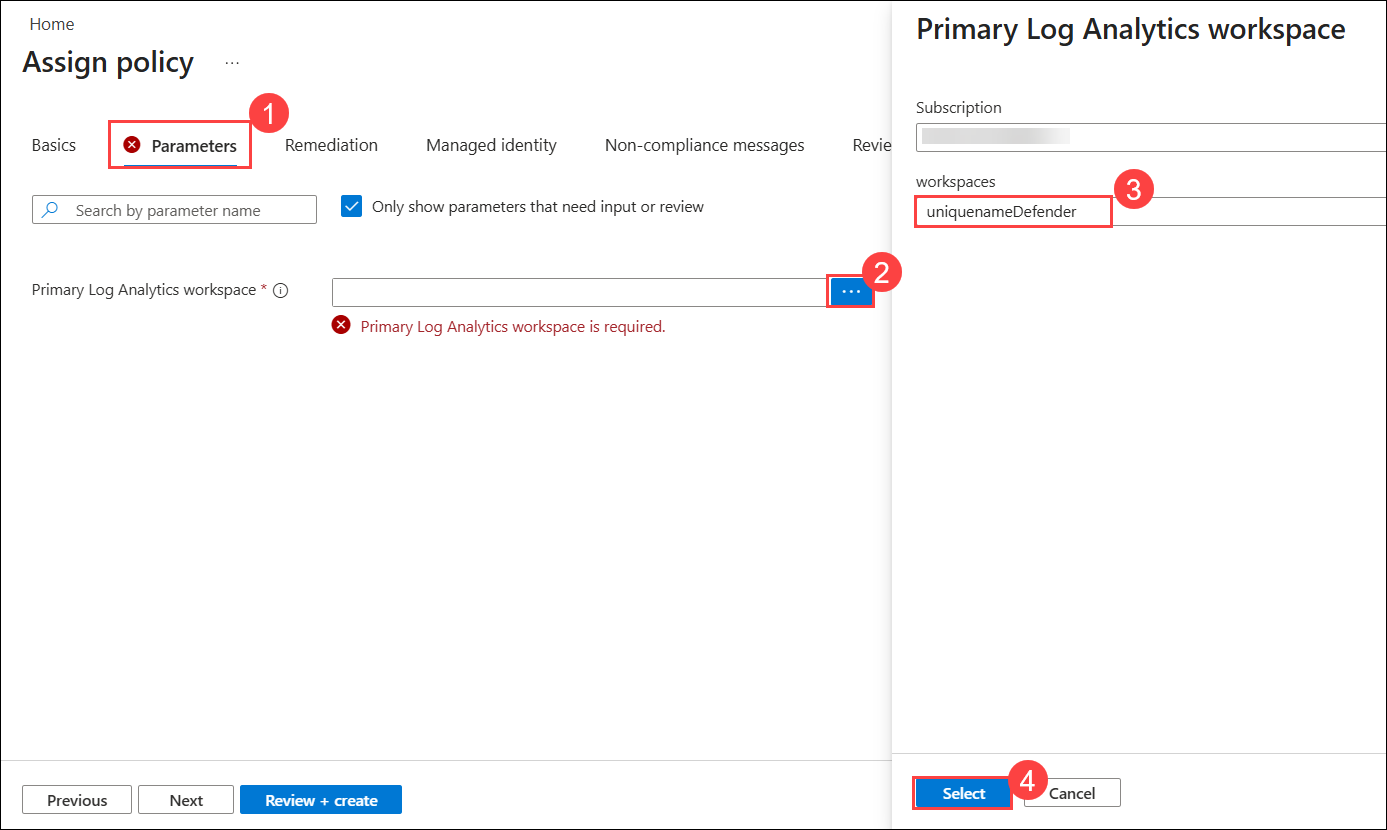
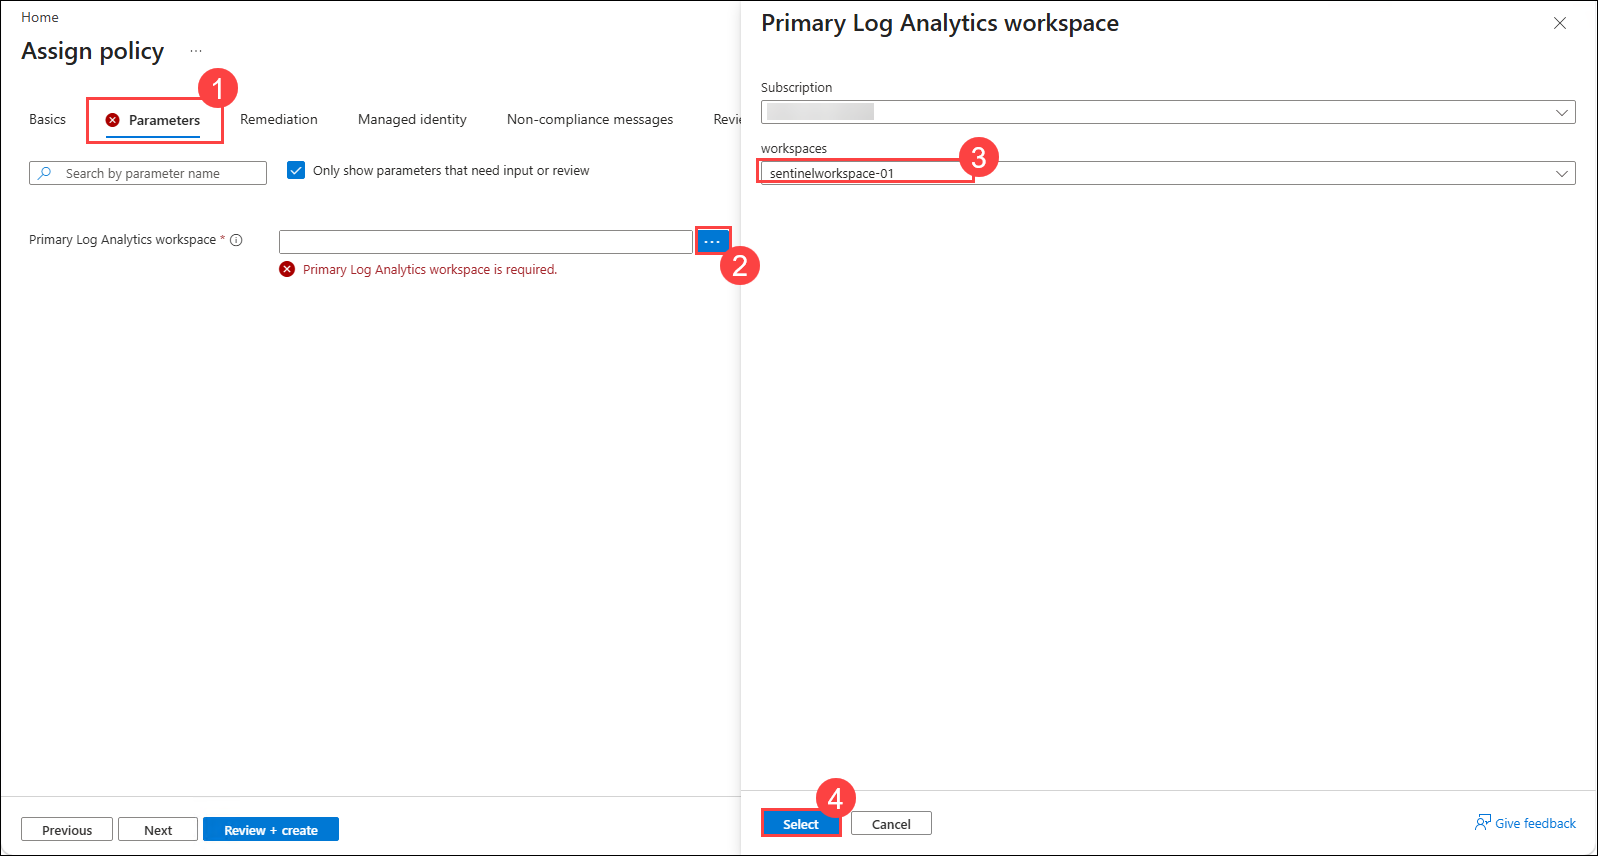
updated the all Custom labs

diff --git a/Instructions/Labs/LAB_AK_09_Lab1_Ex02_Playbook.md b/Instructions/Labs/LAB_AK_09_Lab1_Ex02_Playbook.md
@@ -1,4 +1,4 @@
-# Lab - Exercise 1: Create a Playbook in Microsoft Sentinel
+# Lab-10 Create a Playbook in Microsoft Sentinel
 
 ## Lab Scenario
 
@@ -15,7 +15,7 @@ After completing this lab, you will be able to:
 - Task 2: Update a Playbook in Microsoft Sentinel
 - Task 3: Create an Automation Rule
 
-## Estimated Timing: 30 Minutes
+## Estimated Timing: 60 Minutes
 
 ## Architecture Diagram
 
@@ -25,7 +25,11 @@ After completing this lab, you will be able to:
 
 In this task, you'll create a Logic App that is used as a Playbook in Microsoft Sentinel.
 
-1. On a new tab in the browser, go to **https://security.microsoft.com**
+1. On a new tab in the browser, go to **https://security.microsoft.com**.
+
+1. Close the pop-up that appears.
+
+    ![](../Media/img1.png)
 
 1. In the Microsoft Defender **Microsoft Sentinel (1)** navigation menu, scroll down to the **Content management (2)** section and select **Content Hub (3)**.
 
@@ -45,7 +49,9 @@ In this task, you'll create a Logic App that is used as a Playbook in Microsoft 
 
     ![](../Media/lab9-s23.png)
 
-1. Find the **Defender_XDR_Ransomware_Playbook_for_SecOps-Tasks** playbook and select the name.
+1. Select the **Back** arrow to view the content items and access the connector page. 
+
+1. Find the **Defender_XDR_Ransomware_Playbook_for_SecOps-Tasks (1)** playbook and select the name, then select **Configuration (2)**.
 
    ![](../Media/lab9-s24.png)
 
@@ -81,23 +87,25 @@ In this task, you update the new playbook you created with the proper connection
 
     ![](../Media/lab9-june26-p2t1p4.png)
 
-1. In the Search bar of the Azure portal, type Sentinel, then select Microsoft Sentinel.
+1. In the Search bar of the Azure portal, type Sentinel, then select **Microsoft Sentinel**.
 
 1. Select your Microsoft Sentinel Workspace.
 
-1. Select Automation under the Configuration area and then select the *Active Playbooks* tab.
+1. Select **Automation (2)** under the **Configuration (1)** area and then select the **Active Playbooks (3)** tab.
 
-1. Select Refresh from the command bar in case you don’t see any playbooks. You should see the playbook created from the previous step.
+    ![](../Media/lab-10-img1.png)
+
+1. Select **Refresh** from the command bar in case you don’t see any playbooks. You should see the playbook created from the previous step.
 
 1. Select the **Defender_XDR_Ransomware_Playbook_SecOps_Tasks** playbook name link.
+
+    ![](../Media/lab10-ss2.png)
 
 1. On the Logic app designer page for **Defender_XDR_Ransomware_Playbook_SecOps_Tasks**, in the command menu, select Edit.
 
     >**Note:** You may need to refresh the page.
 
-1. Select the first block, **Microsoft Sentinel incident (1)**.
-
-1. Select the **Change connection (2)** link.
+1. Select the first block, **Microsoft Sentinel incident (1)**, select the **Change connection (2)** link.
 
     ![](../Media/lab9-june26-p2t1p5.png)
 
@@ -131,7 +139,7 @@ In this task, you will create an automation rule in Microsoft Sentinel that runs
 
     ![](../Media/lab9-june26-p2t1p12(1).png)
 
-2. On the **Role** tab, search for **Microsoft Sentinel Automation Contributor (1)**, select the **Microsoft Sentinel Automation Contributor (2)** role, and then select **Review + assign (3)**.
+2. On the **Role** tab, search for **Microsoft Sentinel Automation Contributor (1)**, select the **Microsoft Sentinel Automation Contributor (2)** role, and then select **Next (3)**.
 
     ![](../Media/lab9-june26-p2t1p12(2).png)
 
@@ -164,7 +172,7 @@ In this task, you will create an automation rule in Microsoft Sentinel that runs
         - Persistence
         - Command and Control
         - Exfiltration
-        - PreAttack
+        - PreAttack(Deprecated)
 
 5. Under **Actions**, select **Run Logic Apps playbook (7)**.
 
@@ -176,15 +184,6 @@ In this task, you will create an automation rule in Microsoft Sentinel that runs
 
     ![Create Automation Rule](../Media/lab9-june26-p2t1p11.png)
 
-From here, depending on your role, you will either continue doing more architect exercises or you will pivot to the analyst exercises.
-
-   > **Congratulations** on completing the task! Now, it's time to validate it. Here are the steps:
-   > - Hit the Validate button for the corresponding task. You can proceed to the next task if you receive a success message.
-   > - If not, carefully read the error message and retry the step, following the instructions in the lab guide.
-   > - If you need any assistance, please contact us at cloudlabs-support@spektrasystems.com. We are available 24/7 to help you out.
-
-   <validation step="9a03fda7-3dc7-407d-bbea-d9650d728011" />
-
 ### Review
 In this lab, you have completed the following:
 
@@ -192,4 +191,4 @@ In this lab, you have completed the following:
 - Updated a Playbook in Microsoft Sentinel
 - Created an Automation Rule
 
-## Select **Next** to continue to Exercise 2
+### Congratulations, you’ve successfully completed the hands-on lab!

diff --git a/Instructions/Labs/LAB_AK_08_Lab1_Ex01_Connect_Services.md b/Instructions/Labs/LAB_AK_08_Lab1_Ex01_Connect_Services.md
@@ -1,4 +1,4 @@
-# Lab - Exercise 1: Connect data to Microsoft Sentinel using data connectors
+# Assignment-2: Connect data to Microsoft Sentinel using data connectors
 
 ## Lab Scenario
 
@@ -6,65 +6,24 @@ You are a Security Operations Analyst working at a company that implemented Micr
 
 ## Lab Objectives
  In this lab, you will perform the following:
-- Task 1: Create the Microsoft Sentinel Workspace
-- Task 2: Connect the Microsoft Defender for Cloud data connector
-- Task 3: Connect the Azure Activity data connector
+- Task 1: Connect the Microsoft Defender for Cloud data connector
+- Task 2: Connect the Azure Activity data connector
 
-### Estimated Timing: 20 Minutes
+### Estimated Timing: 60 Minutes
 
 ## Architecture Diagram
 
   ![Picture 1](../Media/mod8arch.png)
 
-### Task 1: Create the Microsoft Sentinel Workspace
-
-In this task, you will access your Microsoft Sentinel workspace.
-
-1. In the Search bar of the Azure portal, type **Log Analytics workspaces (1)**, then select **Log Analytics workspaces (2)**.
-
-    ![](../Media/lab6-s1.png)
-
-1. Select **+ Create** from the command bar.
-
-   ![](../Media/lab6-s2.png)
-
-1. To create a **log analytics workspace**, follow these steps:
-
-    - Subscription **Accept default subscription (1)**
-    - Select **rg-defender (2)** for the Resource group.
-    - For the Name, enter **uniquenameDefender (3)**.
-    - Leave the **default Region (4)**.
-    - Select **Review + Create (5)**.
-
-      ![Picture 1](../Media/lab7-s1.png)
-
-1. Once the workspace validation has passed, select **Create**.
-
-    ![](../Media/lab7-s2.png)
-
-1. Wait for the new workspace to be provisioned, this may take a few minutes.
- 
-1. In the Search bar of the Azure portal, type **microsoft sentinel (1)**, then select **Microsoft Sentinel (2)**.
-
-   ![](../Media/lab6-s5.png)
-
-1. Select **+ Create** from the command bar.
-
-    ![](../Media/lab6-s6.png)
-
- 1. Select the newly created workspace **uniquenameDefender (1)** and click on **Add (1)**.
-  
-    ![](../Media/lab6-s7.png)
-
-1. In the Microsoft Sentinel free trial activated tab, select **Ok**.
-
-   ![](../Media/lab6-s8.png)
-
-### Task 2: Connect the Microsoft Defender for Cloud data connector
+### Task 1: Connect the Microsoft Defender for Cloud data connector
 
 In this task, you will connect the Microsoft Defender for Cloud data connector.
 
-1. On a new tab in the browser, go to **https://security.microsoft.com**
+1. On a new tab in the browser, go to **https://security.microsoft.com**.
+
+1. Close the pop-up that appears.
+
+    ![](../Media/img1.png)
 
 1. On **Microsoft Defender** page, if the left navigation pane is collapsed, select **Show navigation** to expand it.
 
@@ -116,11 +75,11 @@ In this task, you will connect the Microsoft Defender for Cloud data connector.
 
 1. You can now close this browser tab and return to Microsoft Defender XDR.
 
-### Task 3: Connect the Azure Activity data connector
+### Task 2: Connect the Azure Activity data connector
 
 In this task, you will connect the **Azure Activity** data connector.
 
-1. In the Microsoft Sentinel left menus, scroll down to the **Content management** section and select **Content Hub**.
+1. In the Microsoft Sentinel left menu, scroll down to the **Content management** section and select **Content Hub**.
 
 1. In the **Content hub**, search for the **Azure Activity (1)** solution and select **Azure Activity (2)** from the list.
 
@@ -152,7 +111,7 @@ In this task, you will connect the **Azure Activity** data connector.
 
     ![](../Media/lab8-s11.png)
 
-1. Select **Parameters (1)**, click the workspace picker **(2)** for **Primary Log Analytics workspace**, choose **uniquenameDefender (3)**, and then select **Select (4)**.
+1. Select **Parameters (1)**, click the workspace picker **(2)** for **Primary Log Analytics workspace**, choose **sentinelworkspace-01 (3)**, and then select **Select (4)**.
 
     ![](../Media/lab8-s12.png)
 
@@ -195,4 +154,5 @@ In this lab, you have completed the following:
 - Connected the Microsoft Defender for Cloud data connector
 - Connected the Azure Activity data connector
 
-## Select **Next** to continue to Exercise 2
+### Congratulations, you’ve successfully completed the hands-on lab!
+

diff --git a/Instructions/Labs/LAB_AK_08_Lab1_Ex02_Connect_Windows.md b/Instructions/Labs/LAB_AK_08_Lab1_Ex02_Connect_Windows.md
@@ -189,7 +189,7 @@ In this task, you install Azure Arc on an on-premises server to make onboarding 
 
 In this task, you'll connect an Azure Windows virtual machine to Microsoft Sentinel.
 
-1. On a new tab in the browser, go to **https://security.microsoft.com**
+1. On a new tab in the browser, go to **https://security.microsoft.com**.
 
 1. Close the pop-up that appears.
 
@@ -268,13 +268,6 @@ In this task, you'll add an Azure Arc-connected, non-Azure Windows virtual machi
    ![](../Media/lab8-s44.png)
 
 1. Once the **Validation Passed**, click on **Create**.
-
-> **Congratulations** on completing the task! Now, it's time to validate it. Here are the steps:
-> - Hit the Validate button for the corresponding task. You can proceed to the next task if you receive a success message.
-> - If not, carefully read the error message and retry the step, following the instructions in the lab guide.
-> - If you need any assistance, please contact us at cloudlabs-support@spektrasystems.com. We are available 24/7 to help you out.
-
- <validation step="cb8a9849-e7b9-487e-8717-e483d77a590a" />
 
 ## Review
 In this lab, you have completed the following:

diff --git a/Instructions/Labs/LAB_AK_08_Lab1_Ex03_Connect_Linux.md b/Instructions/Labs/LAB_AK_08_Lab1_Ex03_Connect_Linux.md
@@ -20,7 +20,7 @@ You are a Security Operations Analyst working at a company that implemented Micr
 
 In this task, you will access your Microsoft Sentinel workspace.
 
-1. On a new tab in the browser, go to **https://security.microsoft.com**
+1. On a new tab in the browser, go to **https://security.microsoft.com**.
 
 1. In the Microsoft Defender **Microsoft Sentinel (1)** navigation menu, scroll down to the **Content management (2)** section and select **Content Hub (3)**.
 

diff --git a/Instructions/Labs/LAB_AK_09_Lab1_Ex06_Perform_Attacks.md b/Instructions/Labs/LAB_AK_09_Lab1_Ex06_Perform_Attacks.md
@@ -12,7 +12,7 @@ You are going to simulate the attacks that you will later use to detect and inve
 - Task 2: Command and Control Attack with DNS
 - Task 3: Privilege Elevation Attack with User Add
 
-## Estimated Timing: 30 Minutes
+## Estimated Timing: 3 hours
 
 ## Architecture Diagram
 

diff --git a/Instructions/Labs/LAB_AK_09_Lab1_Ex07_Detections-V2.md b/Instructions/Labs/LAB_AK_09_Lab1_Ex07_Detections-V2.md
@@ -13,7 +13,7 @@ Analytics rules search for specific events or sets of events across your environ
 - Task 1: Persistence Attack Detection
 - Task 2: Privilege Elevation Attack Detection
 
-## Estimated Timing: 30 minutes
+## Estimated Timing: 3 hours
 
 ## Architecture Diagram
 
